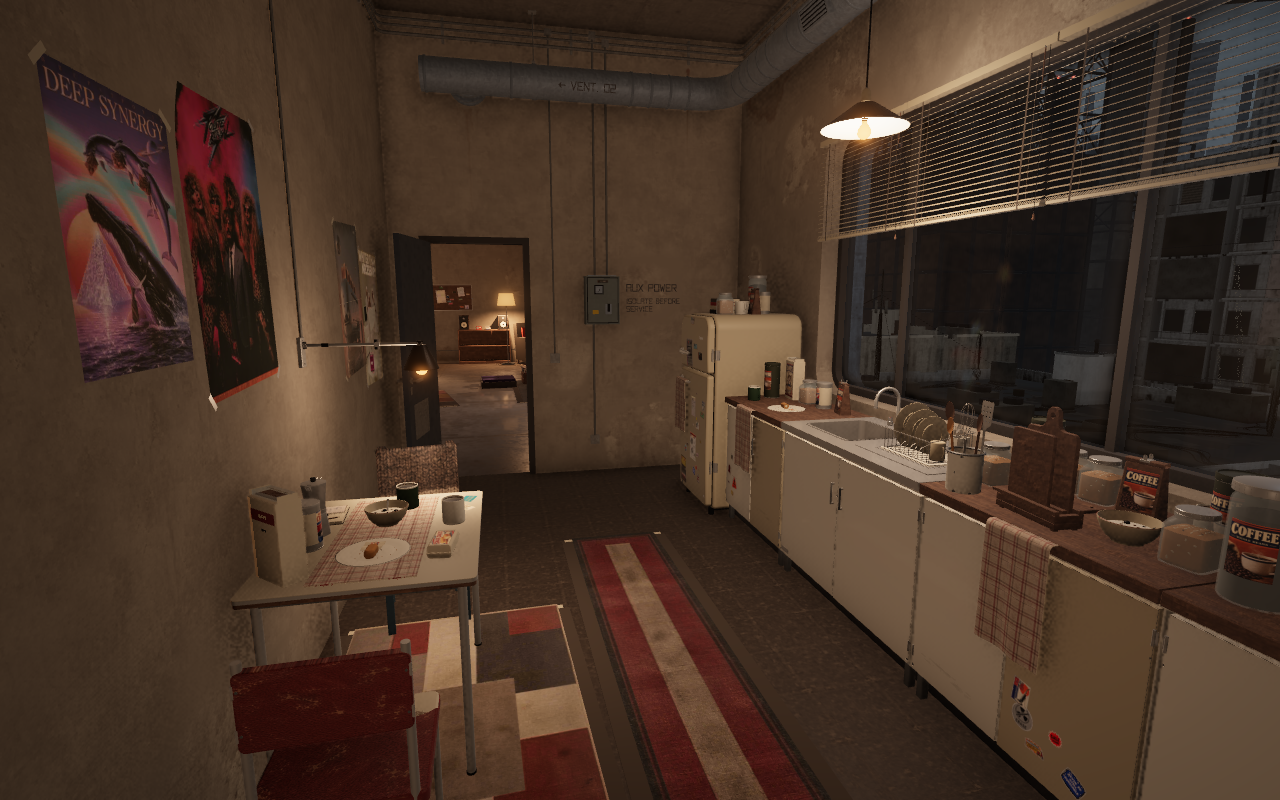
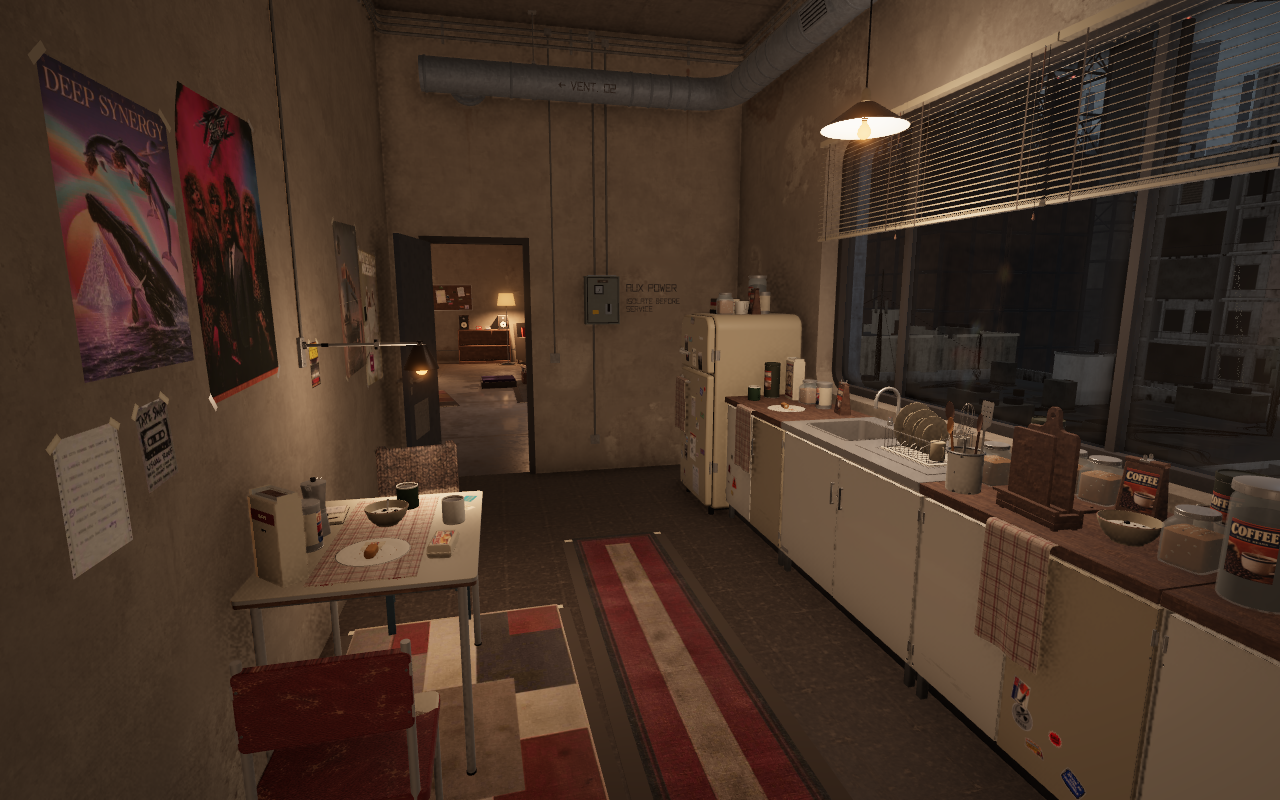
Show the deployed kitchen household keepsakes and artwork

Changed region(s): [[0.0312, 0.5, 0.1562, 0.7188], [0.5312, 0.4375, 0.5625, 0.4688], [0.2188, 0.4375, 0.25, 0.4688]]

diff --git a/concepts/kitchen-comfort-2026-10-09/index.html b/concepts/kitchen-comfort-2026-10-09/index.html
@@ -26,7 +26,7 @@
   <p>Vibe collected and repaired this room herself. These concepts add places to settle in, useful rescued storage, illustrated pantry packs and traces of two girls sharing their daily life.</p>
   <p class="hint">Placement rule for every direction: furnishings find suitable walls and floor space; loose items choose compatible worktops, dining surfaces, shelves and hooks. Changing the room layout must repack them onto the available surfaces. The pictures describe the mood and useful groups, rather than fixed object coordinates.</p>
   <div class="notice">
-    <p><strong>Matching the approved coffee hangout.</strong> The reference below is the target. Fuller storage, larger wall art, personal papers, faded plaid and repaired furniture are in the actual room. Standing boards and a utensil crock join the preparation counter. The seats sit closer to it, with a loose knitted throw, worn fridge edges and faint cupboard scuffs. The latest pass varies the pantry stock: eleven repeated tins are replaced with glass jars, oats, creamer, coffee bags and empty mugs. The upper oat carton now shows its illustration at the front of the shelf. Five tall tins and five finished glass coffee canisters remain, using the existing textures. The latest lighting pass gently lifts the cupboard faces with reflected lamp light. The two personal mugs now have finished dark-green glaze, cream interiors, a small chipped lip and coffee inside. Their dining and preparation surface rules are unchanged. The reused coffee tins now carry dull olive-brown lacquer, following their construction artwork, with no added textures. Medium quality now has clearer daylight on the cupboard fronts, while retaining the warm evening pools and the same light and texture budgets.</p>
+    <p><strong>Matching the approved coffee hangout.</strong> The generated reference below remains the target. The actual room now has a varied shelf-stable pantry, illustrated packaging, salvaged cupboards, personal green mugs, plaid towels, a loose knitted throw and warm task lamps. The latest pass adds four household snapshots and two handwritten coffee notes to the fridge and cupboards, with automatic placement on usable faces. Broad furniture surface character and softer lighting are still being revised.</p>
     <p class="hint">Only shelf-stable food and drinks: oats, coffee, powdered non-dairy creamer, sugar and long-life cakes. No plants. Loose items choose compatible surfaces and reshuffle after furniture edits. The cloth shares the existing atlas, with unchanged GPU memory.</p>
     <p><a href="https://lcs-rooms.up.railway.app/?t=19">Open the live kitchen</a> · <a href="../../props/?item=coffee-mug-green">Inspect the catalog models</a></p>
   </div>
@@ -41,14 +41,22 @@
     <h2>Reference and current 3D progress</h2>
     <p>The room is being judged against this picture. Finished asset counts and the automatic comfort score do not measure the visual match.</p>
     <figure><a href="approved-target.png"><img src="approved-target.png" alt="Approved makeshift coffee kitchen reference with crowded pantry shelves, plaid towels, a knitted chair drape, personal papers and warm shaded lamps." width="1280" height="800" fetchpriority="high"></a><figcaption>Approved target · generated concept art.</figcaption></figure>
-    <figure><a href="progress-a.png?v=27e1969"><img src="progress-a.png?v=27e1969" alt="Current native 3D kitchen with varied glass jars, oats, creamer, coffee bags and empty mugs, warm task lights, plaid towels and a loose knitted chair throw." width="1280" height="800" loading="lazy"></a><figcaption>Current 3D implementation · entrance view · varied pantry stock, gentler room fill, finished personal green mugs and dull olive coffee tins.</figcaption></figure>
-    <figure><a href="progress-b.png?v=27e1969"><img src="progress-b.png?v=27e1969" alt="Current opposing native 3D kitchen view with illustrated pantry supplies, a shaded table lamp, plaid runner and repaired mismatched chairs." width="1280" height="800" loading="lazy"></a><figcaption>Current 3D implementation · opposing view.</figcaption></figure>
+    <figure><a href="progress-a.png?v=a1c146c"><img src="progress-a.png?v=a1c146c" alt="Current native 3D kitchen with varied glass jars, oats, creamer, coffee bags and empty mugs, warm task lights, plaid towels and a loose knitted chair throw." width="1280" height="800" loading="lazy"></a><figcaption>Current 3D implementation · entrance view · varied pantry stock, gentler room fill, finished personal green mugs, dull olive coffee tins and household photographs.</figcaption></figure>
+    <figure><a href="progress-b.png?v=a1c146c"><img src="progress-b.png?v=a1c146c" alt="Current opposing native 3D kitchen view with illustrated pantry supplies, a shaded table lamp, plaid runner and repaired mismatched chairs." width="1280" height="800" loading="lazy"></a><figcaption>Current 3D implementation · opposing view.</figcaption></figure>
     <p class="hint">The actual room keeps its existing proportions and city. Its light is harder and its broad enamel faces more uniform than the generated reference. Native pictures at noon, dusk and night have a clear doorway, no waiting surface inventory and no missing prop models.</p>
     <h3>Medium quality · daylight correction</h3>
     <p>The same room, camera and noon setting before and after the latest correction. The existing reflected daylight field now reaches the kitchen more clearly. A changed layout that gives this room a direct window light disables the fallback automatically.</p>
     <figure><a href="daylight-medium-before.png?v=f78fb4d"><img src="daylight-medium-before.png?v=f78fb4d" alt="Deployed kitchen before the correction, with dark cupboard fronts at noon on medium quality." width="1280" height="800" loading="lazy"></a><figcaption>Before · deployed 3D room · medium quality, noon.</figcaption></figure>
     <figure><a href="daylight-medium-after.png?v=f78fb4d"><img src="daylight-medium-after.png?v=f78fb4d" alt="Deployed kitchen with clearer cool daylight on the cupboard fronts and warm local lamps at noon on medium quality." width="1280" height="800" loading="lazy"></a><figcaption>After · deployed 3D room · medium quality, noon · same camera and furniture.</figcaption></figure>
     <p class="hint">No extra lights or textures. The dusk pictures above use high quality; this pair shows the medium-tier daytime correction.</p>
+  </section>
+  <section id="keepsakes">
+    <h2>Household memories and coffee notes</h2>
+    <p>Four little snapshots and two handwritten notes make the kitchen feel more personal. Magnets hold the fridge pictures; tape holds the cupboard cards. Their positions follow the furniture and keep vents, hinges and latches clear.</p>
+    <figure><a href="keepsakes-fridge.png?v=a1c146c"><img src="keepsakes-fridge.png?v=a1c146c" alt="Actual 3D fridge with personal household photographs, a Saved you a mug note and a draped plaid towel." width="1280" height="800" loading="lazy"></a><figcaption>Fridge keepsakes · actual deployed 3D room.</figcaption></figure>
+    <figure><a href="keepsakes-cupboards.png?v=a1c146c"><img src="keepsakes-cupboards.png?v=a1c146c" alt="Actual cream cupboard and salvaged blue steel locker with taped keepsakes and a handwritten coffee supply note above the coffee station." width="1280" height="800" loading="lazy"></a><figcaption>Rescued wall cupboards · actual deployed 3D room.</figcaption></figure>
+    <figure><a href="keepsakes-artwork.jpg?v=a1c146c"><img src="keepsakes-artwork.jpg?v=a1c146c" alt="The six generated texture artworks: coffee by the window, coffee and cassettes, the city rooftops, mismatched kitchen chairs, a coffee supply list and Saved you a mug." loading="lazy"></a><figcaption>Generated artwork checked by the decal slicer · used in the room above.</figcaption></figure>
+    <p class="hint">The approved image remains the target. Furniture surface character and softer lighting are still being revised.</p>
   </section>
   <section id="details">
     <h2>Everyday coffee and leftovers</h2>
